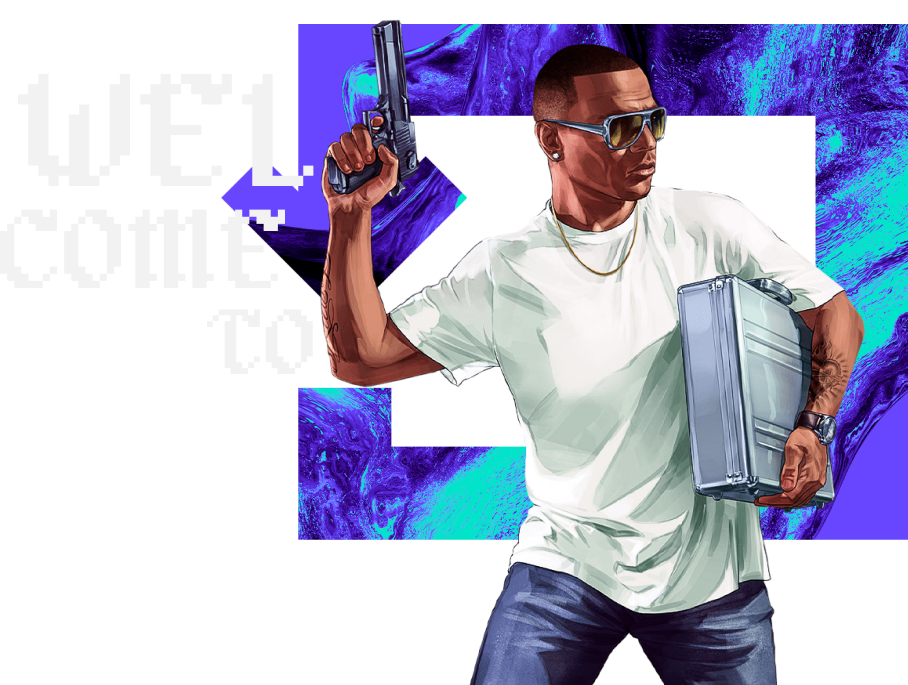
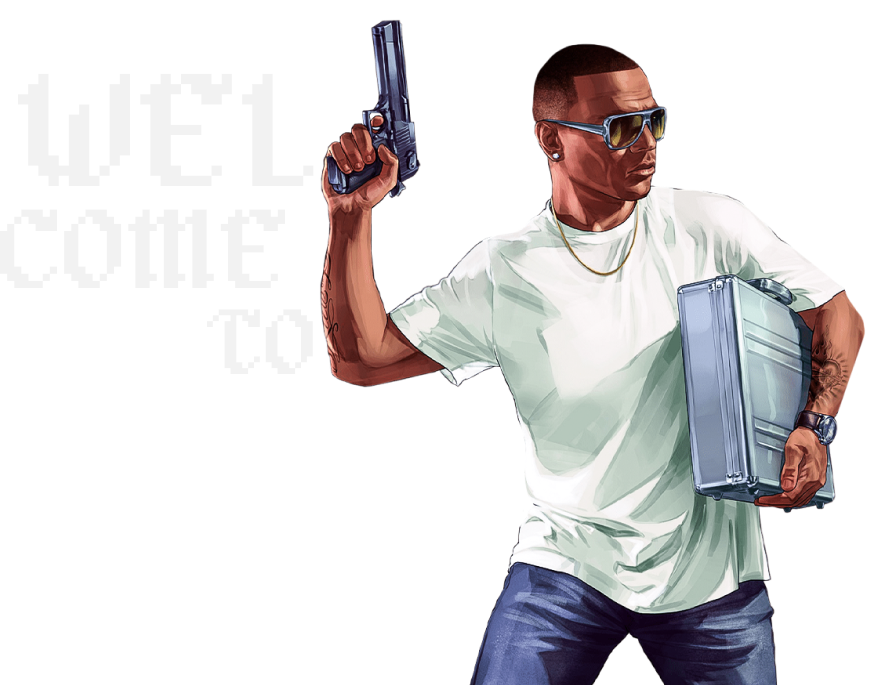
add animated bg on home view

diff --git a/src/views/common/Home.jsx b/src/views/common/Home.jsx
@@ -6,6 +6,7 @@ import { useNavigate } from 'react-router-dom'
 
 import { Container } from '@components'
 
+import animatedBg from '@assets/images/home_bg_animated.gif'
 import heroImg from '@assets/images/home_hero.png'
 import logo from '@assets/images/logo_type_white.svg'
 import style from './Home.module.css'
@@ -20,6 +21,9 @@ export default function HomeView() {
 
   return (
     <Container align="center" justify="center" className={style.container}>
+      <Container className={style.animatedBg} align="center" justify="center">
+        <img src={animatedBg} alt="Fundo animado" />
+      </Container>
       <Container className={style.heroImg} align="center" justify="end">
         <img src={heroImg} alt="Personagem do GTA 5" />
       </Container>

diff --git a/src/views/common/Home.module.css b/src/views/common/Home.module.css
@@ -5,15 +5,31 @@
     background-size: cover;
     color: white;
     height: 100vh;
+    position: relative;
 }
 
-.heroImg {
-    margin-top: auto;
+.animatedBg {
+    position: absolute;
+    z-index: 0;
+}
+
+.animatedBg img {
+    margin-right: 200px;
+    margin-top: 125px;
+    max-width: 700px;
 }
 
 .hero {
     max-width: 650px;
-    margin-left: 50px;
+    margin-left: 100px;
+    position: relative;
+    z-index: 1;
+}
+
+.heroImg {
+    margin-top: auto;
+    position: relative;
+    z-index: 1;
 }
 
 .brand {
